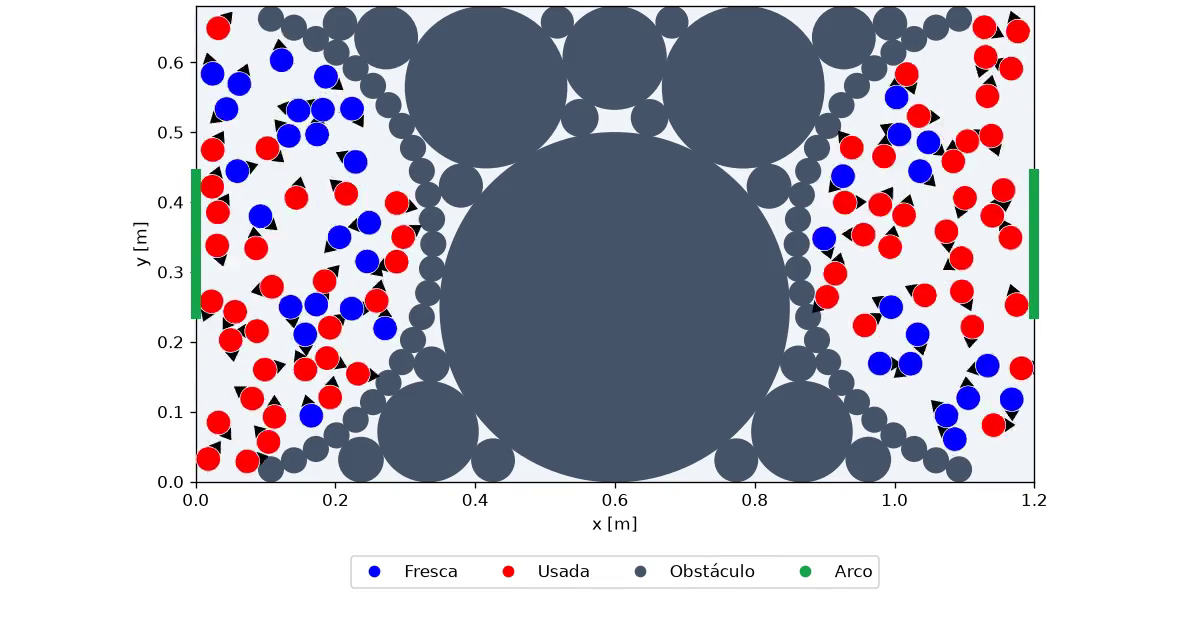
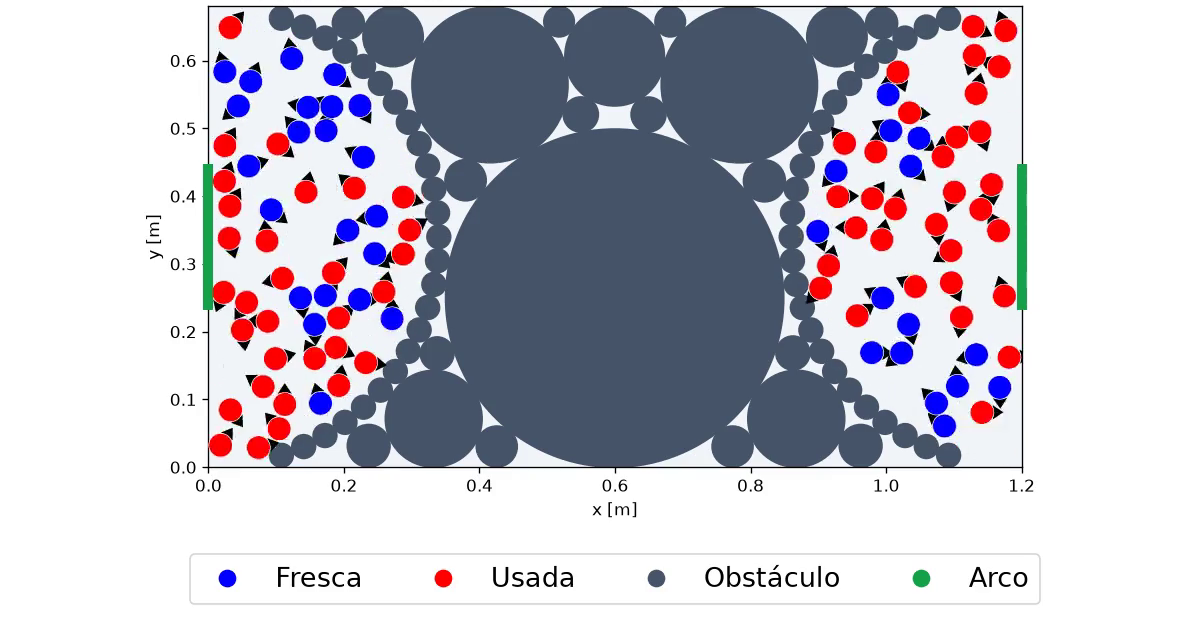
feat: enlarge animation labels and legend

diff --git a/TP3/scripts/animate.py b/TP3/scripts/animate.py
@@ -79,10 +79,10 @@ def render_animation(data, output, *, fps=30, speed=1.0, dpi=120, progress=True,
     ax.legend(handles=[Line2D([], [], marker='o', linestyle='', color=color, label=label)
                        for color, label in [('blue', 'Fresca'), ('red', 'Usada'),
                                             ('#475569', 'Obstáculo'), ('#16a34a', 'Arco')]],
-              loc='upper center', bbox_to_anchor=(0.5, -0.14), ncol=4)
-    title = ax.set_title('', loc='left')
-    t90_label = ax.set_title('', loc='right', color='#16a34a', fontweight='bold')
-    fig.subplots_adjust(bottom=0.22, top=0.88)
+              loc='upper center', bbox_to_anchor=(0.5, -0.16), ncol=4, fontsize=16, markerscale=1.6)
+    title = ax.set_title('', loc='left', fontsize=15)
+    t90_label = ax.set_title('', loc='right', color='#16a34a', fontweight='bold', fontsize=15)
+    fig.subplots_adjust(bottom=0.24, top=0.88)
     try:
         with writer.saving(fig, str(output), dpi):
             for i, frame in enumerate(data.frames):
